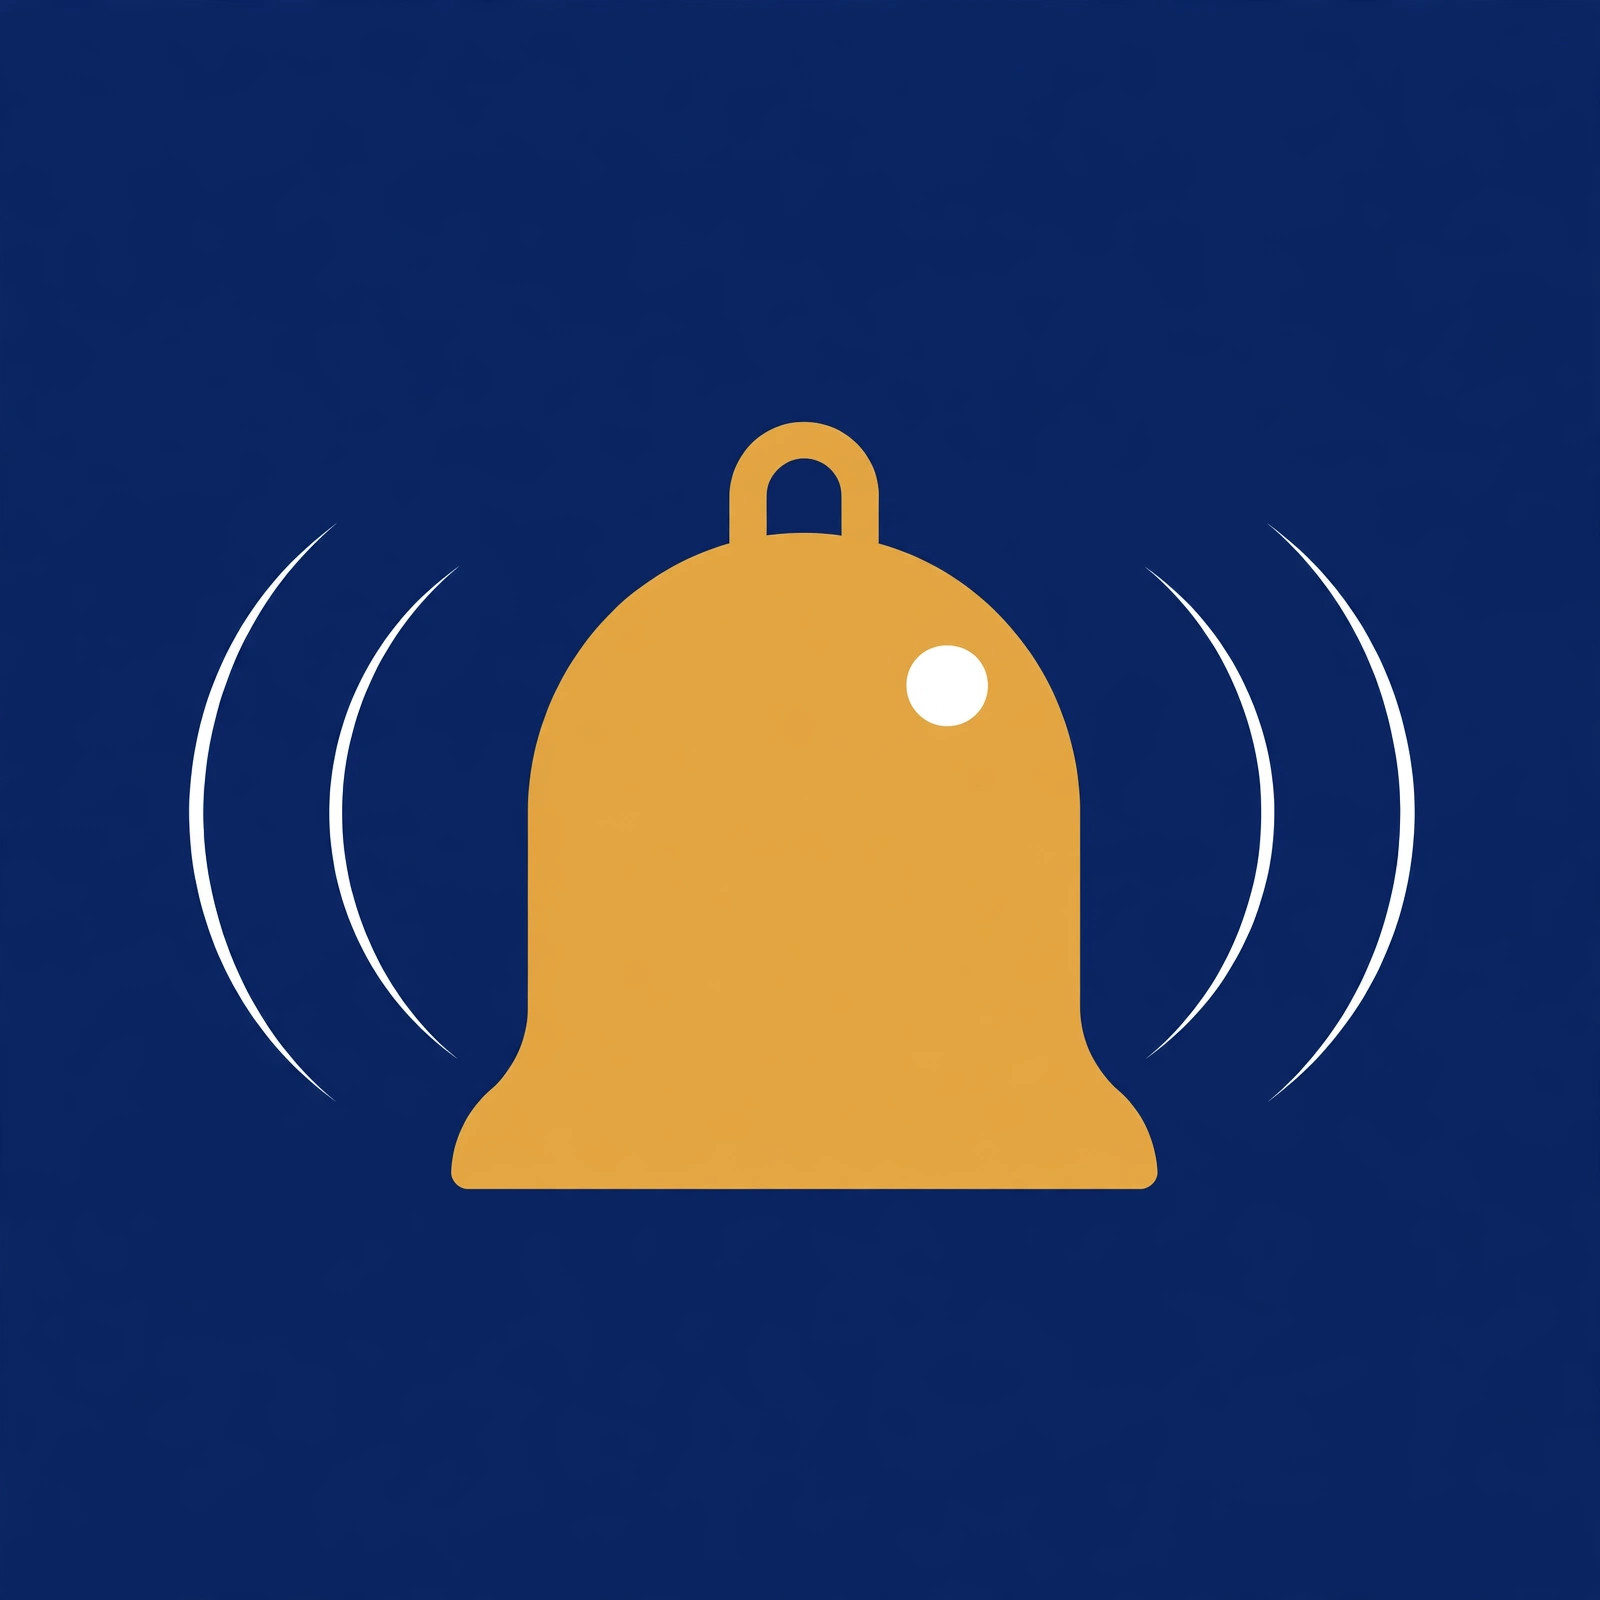
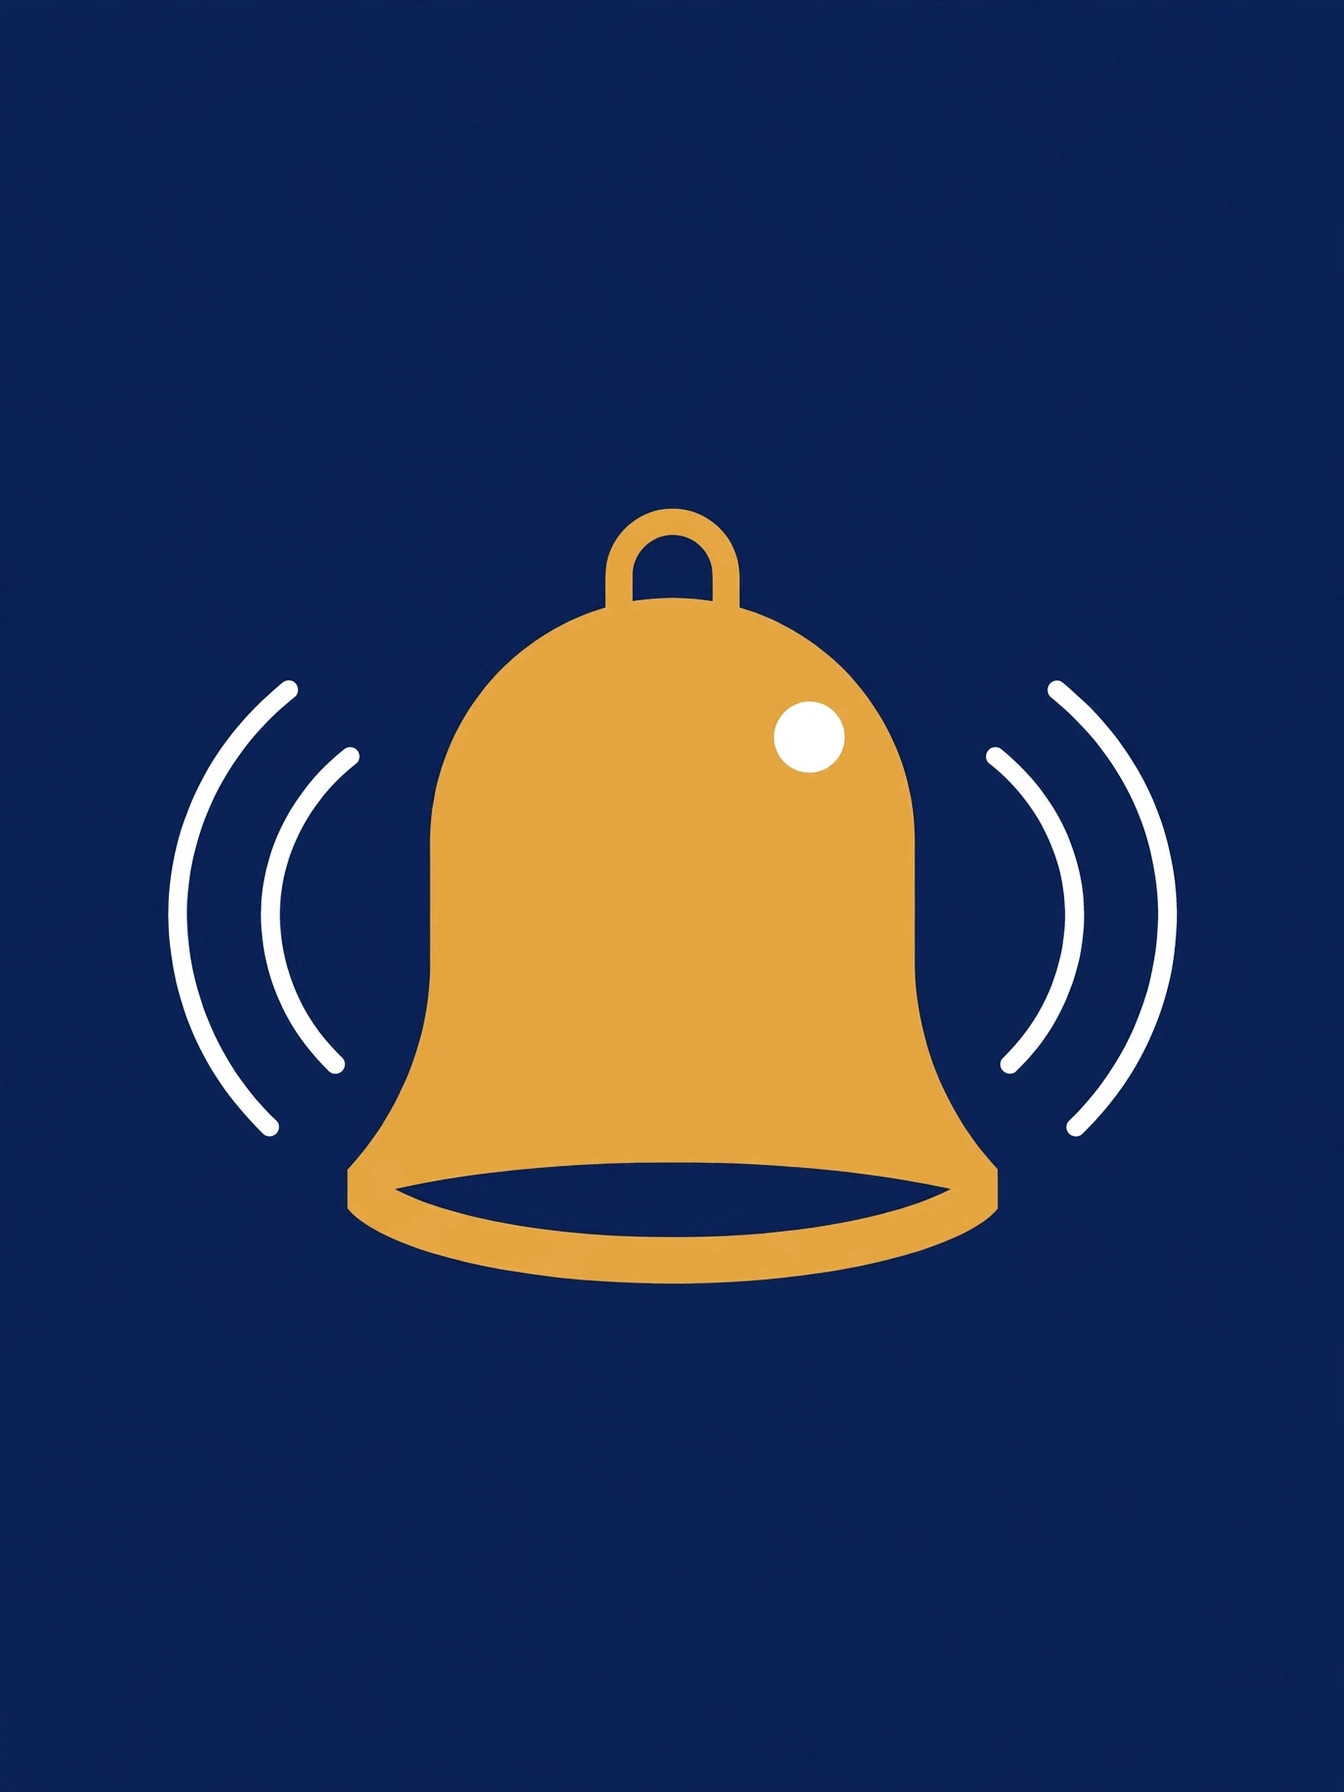
Regenerate feature images in 3:4 portrait to match frame; seamless navy backdrop

diff --git a/frontend/src/app/(marketing)/marketing.css b/frontend/src/app/(marketing)/marketing.css
@@ -671,14 +671,14 @@ a.mm-btn-primary:active {
   overflow: hidden;
   min-height: 300px;
   min-width: 0;
-  background: #0a1628;
+  background: #0b245c;
 }
 .mm-featshow-visual img {
   position: absolute;
   inset: 0;
   width: 100%;
   height: 100%;
-  object-fit: cover;
+  object-fit: contain;
   display: block;
 }
 .mm-featshow-body {
